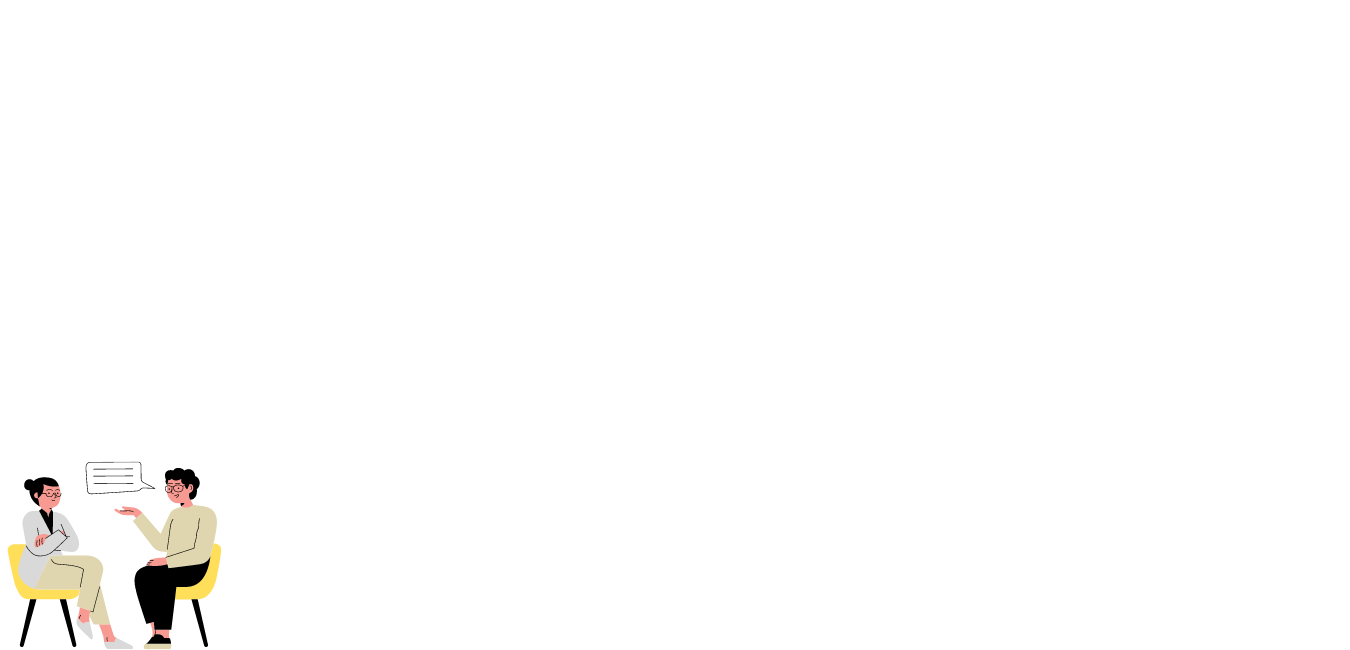
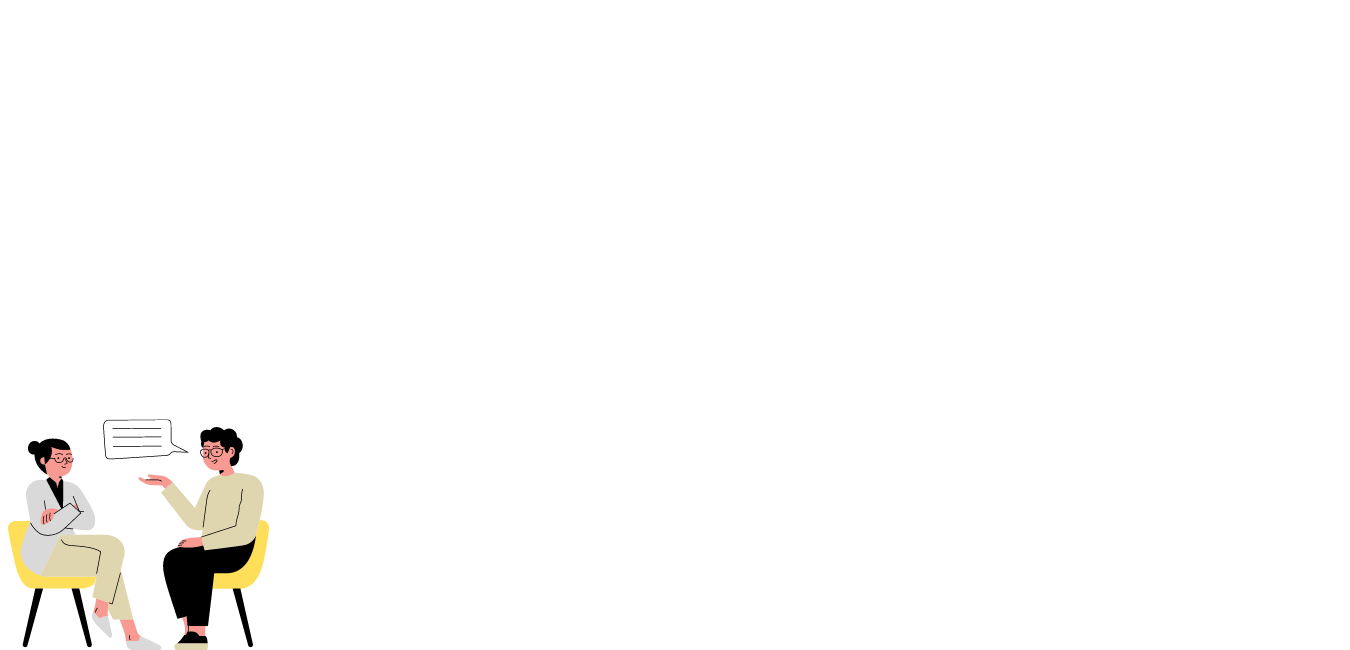
feat

Changed region(s): [[0.0, 0.6462, 0.2178, 1.0]]

diff --git a/src/components/calendar.js b/src/components/calendar.js
@@ -155,7 +155,7 @@ export default class App extends React.Component{
         })
         await new Promise(resolve => setTimeout(() => resolve(true), 300))
         this.setState({
-            hours: ['10:00','12:00', '13:00', '15:00', '20:00', '20:00', '20:00', '20:00', '20:00', '20:00', '20:00', '20:00'],
+            hours: ['10:00','12:00', '13:00', '15:00', '16:00', '20:00', '20:00', '20:00', '20:00', '20:00', '20:00', '20:00'],
             loading: false
         })
     }
@@ -180,17 +180,18 @@ export default class App extends React.Component{
     datePage = () => {
         return (
             <>
-            <div className="container">
-                <br></br>
-                        <h3>Qual o melhor dia para nossa conversa inicial?</h3>
-                        <br></br>
+            <div className="container ">
+               
                             <div className="whiteCard">  
-                            <h3>Fevereiro</h3>
+                            <br></br>
+                            <h4>Qual o melhor dia para nossa conversa inicial?</h4>
+                            <br></br>
                                 <div className="row just">
                                  <div className="col-2 colSeta">
                                 <img className="seta" src={Left }/>
                                 </div> 
-                                <div className="yellowCard">
+                                <div className="yellowCard row">
+                                <h3 className="col-12 d-flex justify-content-center">Abril</h3>
                                 <Calendar
                                     locale = 'PT-BR'
                                     
@@ -207,7 +208,7 @@ export default class App extends React.Component{
                                 <img className="seta" src={Right}/>
                                 </div> 
                                 </div>
-                                <button className = "btnA">Agendar </button>  
+                                <br></br>  
                             </div>
                             <img className="bg-img" src={Bg }/>  
                </div> 
@@ -219,16 +220,20 @@ export default class App extends React.Component{
     hourPage = () => {
         return (
         <div className="container">
-            <br></br>
-                        <h3>Qual o melhor horário para nossa conversa inicial?</h3><br></br>
-                            <div className="whiteCard">  
-                                    <h3>{this.state.date.getDate()}/0{this.state.date.getMonth()}  </h3>
+            
+                        
+                            <div className="whiteCard"> 
+                            <br></br> 
+                            <h4>Qual o melhor horário para nossa conversa inicial?</h4>
+                            <br></br>
+                                    
                                     <div className="row">
                                                 <div className="col-2 colSeta">
                                                 <img className="seta" src={Left }/>
                                                 </div> 
                                                 <div className="yellowCard time container">
-                                                        <h5 className="time" >Horários disponíveis</h5> 
+                                                        
+                                                        <h5 className="time" >Horários disponíveis dia {this.state.date.getDate()}/0{this.state.date.getMonth()}</h5> 
                                                         <div className="row just">
                                                         {/* Mapeando as horas disponíveis */}
                                                         { this.state.loading ?<div >Carregando</div> : this.state.hours.map(
@@ -242,7 +247,7 @@ export default class App extends React.Component{
                                                 
                                                 </div>
                                     </div>
-                                    <button className = "btnA">Agendar </button>
+                                    
                             </div>
                             <img className="bg-img" src={Bg }/>  
         </div> )
@@ -250,10 +255,11 @@ export default class App extends React.Component{
 
     appointmentPage = () => {
         return (<div className="container">
-            <br></br>
-                        <h3>Estamos ansiosos para te conhecer...</h3><br></br>
-
+        
                         <div className="whiteCard container">  
+                        <br></br>
+                        <h4>Vamos agendar nossa conversa?</h4>
+                        
                             
                             <div className="row col-12 pcard">
                                 <div className="col-6 confcard borderline">
@@ -293,11 +299,11 @@ export default class App extends React.Component{
 
                 <div className="nav-menu">
                 <div className= "col-4 logo"> <img className= "img-nav" src={LogoNav }/> </div>   
-             
-                    <ul><a class="nav-ul " href="#hero">Serviços</a></ul>
-                    <ul><a class="nav-ul " href="#about">Conteúdo gratuito</a></ul>
-                    <ul><a class="nav-ul" href="#services">Blog</a></ul>
-               
+                <ul>
+                    <li><a class="nav-ul " href="#hero">Serviços</a></li>
+                    <li><a class="nav-ul " href="#about">Conteúdo gratuito</a></li>
+                    <li><a class="nav-ul" href="#services">Blog</a></li>
+                    </ul>
                 </div>
 
                 

diff --git a/src/components/App.css b/src/components/App.css
@@ -53,7 +53,7 @@ margin-right:20px;
 .bg-img{
   position:absolute;
   z-index: 2;
-  left:0px;
+  left:5px;
   bottom:55px;
 }
 
@@ -84,6 +84,7 @@ margin-right:20px;
   width: 1050px;
   height: 500px;
   padding: 10px;
+  margin-top:50px;
   box-shadow: 1px 0px 5px -1px #ACABA3;
   justify-content: center;
   align-content: center;
@@ -242,7 +243,7 @@ color:white;
 
 .nav-menu{
 
-height:70px;
+height:60px;
 background-color: black;
 color:white;
 font-size: 20px;
@@ -252,6 +253,11 @@ align-items:stretch;
 flex-direction:row;
 display:flex;
 padding-top: 10px;
+}
+
+li {
+  list-style-type: none;
+  margin-right:30px;
 }
 
 .nav-menu ul{
@@ -382,7 +388,7 @@ font-size: 16px;
 
 .pcard{
 margin-bottom:50px;
-margin-top:100px;
+margin-top:50px;
 }
 
 
